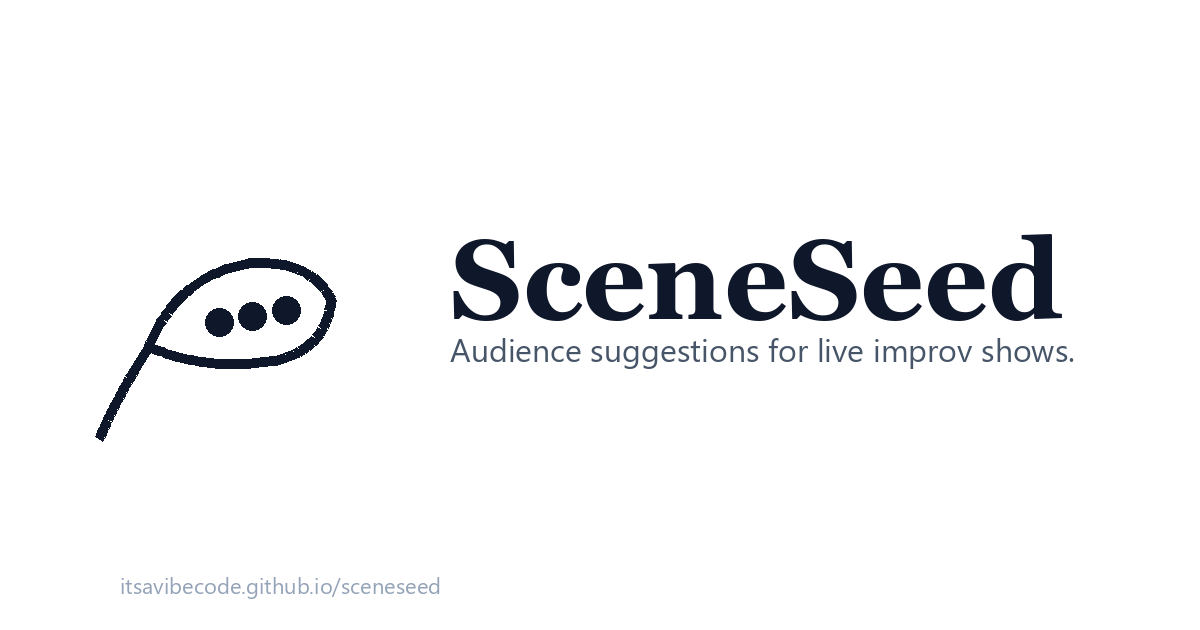
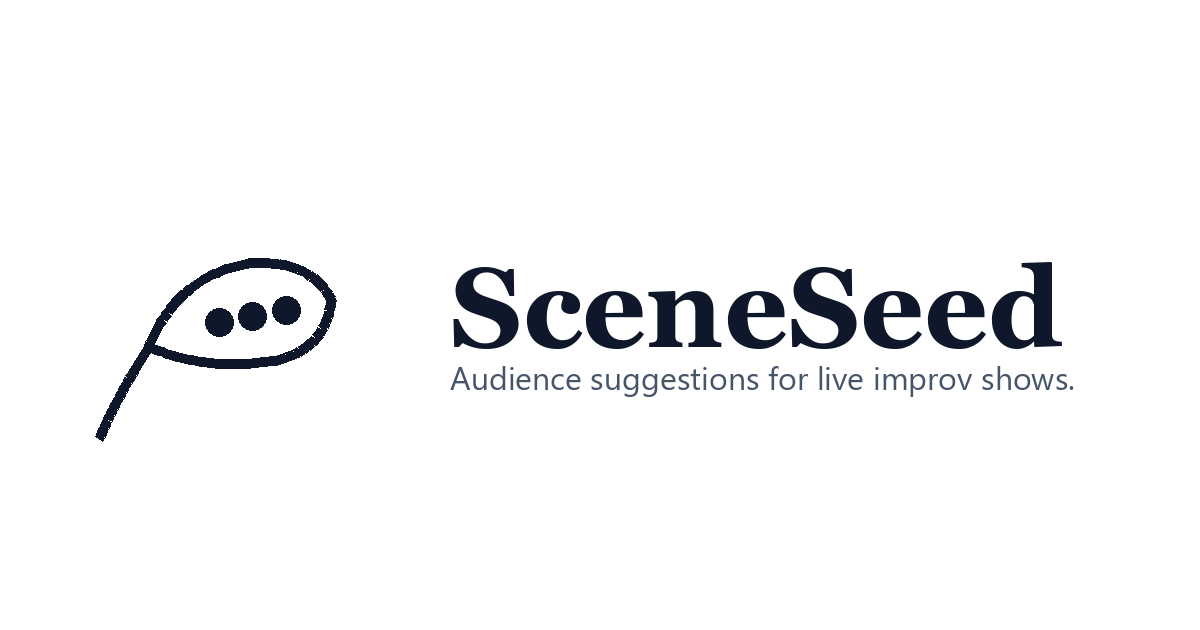
v1.2.0 — secondary deployment to dev.rizzo.cc/sceneseed
NEW WORKFLOW (.github/workflows/mirror-to-dev.yml):
- Triggered on push to main + manual workflow_dispatch.
- Checks out itsavibecode/sceneseed + yada-yoda/dev (with PAT).
- rsyncs source → dst/sceneseed/ excluding .git, .github, README.md,
  firestore.rules, firestore.indexes.json, firebase.json, design/,
  .scripts/.
- Three-pass sed rewrite of itsavibecode.github.io references to
  dev.rizzo.cc in .html .js .txt .xml .webmanifest files.
- Commits with intentionally generic "Update /sceneseed" — never
  references the source repo. Committer is github-actions[bot].

OG IMAGE:
- Rebuilt without the URL footer so the same artwork works on both
  deployment origins without leaking either domain into the picture.

ONE-TIME SETUP REQUIRED (see README v1.2.0 section):
- Fine-grained PAT on yada-yoda, scoped to yada-yoda/dev,
  Contents read+write. Add as MIRROR_TO_DEV_PAT repo secret on
  itsavibecode/sceneseed.
- Add dev.rizzo.cc to Firebase Auth → Settings → Authorized domains.

Once that's in place, the mirror auto-runs on every push.

Changed region(s): [[0.37, 0.3619, 0.8942, 0.6333], [0.0925, 0.9048, 0.37, 0.9651]]

diff --git a/dashboard.html b/dashboard.html
@@ -21,7 +21,7 @@
 
 <title>Dashboard — SceneSeed</title>
 <meta name="description" content="Manage your improv groups, shows, and suggestions.">
-<meta name="version" content="1.1.0">
+<meta name="version" content="1.2.0">
 <meta name="theme-color" content="#0f172a">
 <meta name="robots" content="noindex">
 
@@ -138,7 +138,7 @@
       <a href="/sceneseed/">Home</a>
       <a href="privacy.html">Privacy</a>
     </div>
-    <div>SceneSeed v1.1.0 · MIT</div>
+    <div>SceneSeed v1.2.0 · MIT</div>
   </div>
 </footer>
 

diff --git a/group.html b/group.html
@@ -21,7 +21,7 @@
 
 <title>Group — SceneSeed</title>
 <meta name="description" content="Manage an improv group on SceneSeed.">
-<meta name="version" content="1.1.0">
+<meta name="version" content="1.2.0">
 <meta name="theme-color" content="#0f172a">
 <meta name="robots" content="noindex">
 
@@ -217,7 +217,7 @@
       <a href="/sceneseed/">Home</a>
       <a href="privacy.html">Privacy</a>
     </div>
-    <div>SceneSeed v1.1.0 · MIT</div>
+    <div>SceneSeed v1.2.0 · MIT</div>
   </div>
 </footer>
 

diff --git a/index.html b/index.html
@@ -24,7 +24,7 @@
 <meta name="description" content="A free web app for improv teams. Collect audience suggestions through a show-specific QR code with a server-locked submission window.">
 <meta name="keywords" content="improv suggestion app, audience suggestion collector, improv show QR code, live improv ensemble dashboard, suggestion box for theater, improv prompt generator, audience participation app, scene starter, improv prompt seed, QR audience suggestions">
 <meta name="author" content="itsavibecode">
-<meta name="version" content="1.1.0">
+<meta name="version" content="1.2.0">
 <meta name="theme-color" content="#0f172a">
 <meta name="robots" content="index, follow">
 
@@ -168,7 +168,7 @@
     <div>
       <a href="privacy.html">Privacy</a>
     </div>
-    <div>SceneSeed v1.1.0 · MIT</div>
+    <div>SceneSeed v1.2.0 · MIT</div>
   </div>
 </footer>
 

diff --git a/show.html b/show.html
@@ -21,7 +21,7 @@
 
 <title>Show — SceneSeed</title>
 <meta name="description" content="Manage an improv show on SceneSeed.">
-<meta name="version" content="1.1.0">
+<meta name="version" content="1.2.0">
 <meta name="theme-color" content="#0f172a">
 <meta name="robots" content="noindex">
 
@@ -320,7 +320,7 @@
       <a href="/sceneseed/">Home</a>
       <a href="privacy.html">Privacy</a>
     </div>
-    <div>SceneSeed v1.1.0 · MIT</div>
+    <div>SceneSeed v1.2.0 · MIT</div>
   </div>
 </footer>
 

diff --git a/signin.html b/signin.html
@@ -21,7 +21,7 @@
 
 <title>Sign in — SceneSeed</title>
 <meta name="description" content="Sign in to SceneSeed to host an improv show.">
-<meta name="version" content="1.1.0">
+<meta name="version" content="1.2.0">
 <meta name="theme-color" content="#0f172a">
 <meta name="robots" content="noindex">
 
@@ -93,7 +93,7 @@
       <a href="/sceneseed/">Home</a>
       <a href="privacy.html">Privacy</a>
     </div>
-    <div>SceneSeed v1.1.0 · MIT</div>
+    <div>SceneSeed v1.2.0 · MIT</div>
   </div>
 </footer>
 

diff --git a/summary.html b/summary.html
@@ -21,7 +21,7 @@
 
 <title>Show summary — SceneSeed</title>
 <meta name="description" content="Post-show summary with favorites, used suggestions, and top submitters.">
-<meta name="version" content="1.1.0">
+<meta name="version" content="1.2.0">
 <meta name="theme-color" content="#0f172a">
 <meta name="robots" content="noindex">
 
@@ -147,7 +147,7 @@
       <a href="/sceneseed/">Home</a>
       <a href="privacy.html">Privacy</a>
     </div>
-    <div>SceneSeed v1.1.0 · MIT</div>
+    <div>SceneSeed v1.2.0 · MIT</div>
   </div>
 </footer>
 

diff --git a/view/index.html b/view/index.html
@@ -12,7 +12,7 @@
 
 <title>Ensemble view — SceneSeed</title>
 <meta name="description" content="Read-only view of audience suggestions for a show.">
-<meta name="version" content="1.1.0">
+<meta name="version" content="1.2.0">
 <meta name="theme-color" content="#0f172a">
 <meta name="robots" content="noindex">
 
@@ -83,7 +83,7 @@
       <a href="/sceneseed/">Home</a>
       <a href="/sceneseed/privacy.html">Privacy</a>
     </div>
-    <div>SceneSeed v1.1.0 · MIT</div>
+    <div>SceneSeed v1.2.0 · MIT</div>
   </div>
 </footer>
 

diff --git a/perform.html b/perform.html
@@ -21,7 +21,7 @@
 
 <title>Perform — SceneSeed</title>
 <meta name="description" content="Full-screen performer view of incoming suggestions.">
-<meta name="version" content="1.1.0">
+<meta name="version" content="1.2.0">
 <meta name="theme-color" content="#000000">
 <meta name="robots" content="noindex">
 

diff --git a/privacy.html b/privacy.html
@@ -105,7 +105,7 @@
     <div>
       <a href="/sceneseed/">Home</a>
     </div>
-    <div>SceneSeed v1.1.0 · MIT</div>
+    <div>SceneSeed v1.2.0 · MIT</div>
   </div>
 </footer>
 

diff --git a/s/index.html b/s/index.html
@@ -12,7 +12,7 @@
 
 <title>Suggest a scene — SceneSeed</title>
 <meta name="description" content="Submit a one-line suggestion to the show.">
-<meta name="version" content="1.1.0">
+<meta name="version" content="1.2.0">
 <meta name="theme-color" content="#0f172a">
 <meta name="robots" content="noindex">
 

diff --git a/.scripts/build-og-image.py b/.scripts/build-og-image.py
@@ -133,13 +133,14 @@ def build_og_image(out_path):
 
     title_h = title_box[3] - title_box[1]
     total_h = title_h + 24 + (sub_box[3] - sub_box[1])
-    title_y = (H - total_h) / 2 - 28
+    # Centered vertically when the URL footer is gone.
+    title_y = (H - total_h) / 2
     d.text((title_x, title_y), title, fill=INK, font=title_font)
     d.text((title_x, title_y + title_h + 24), sub, fill=MUTED, font=sub_font)
 
-    # Footer URL bottom-left
-    url = "itsavibecode.github.io/sceneseed"
-    d.text((120, H - 60), url, fill=FAINT, font=url_font)
+    # No URL footer on the OG image — keeps the same artwork usable across
+    # multiple deployments (e.g. dev.rizzo.cc mirror) without leaking either
+    # origin into the picture itself.
 
     img.save(out_path, 'PNG', optimize=True)
     print(f"wrote {out_path}  ({W}×{H})")

diff --git a/README.md b/README.md
@@ -76,6 +76,7 @@ firebase deploy --only firestore:rules
 | 0.10.0 | ✅ shipped | Multiple rounds per show + live audience updates when host opens a new round |
 | **1.0.0** | **✅ shipped** | **Production milestone: profanity + hate-term filter, version-1 declaration** |
 | 1.1.0 | ✅ shipped | PWA installability — proper PNG icon set (192/512/maskable), full manifest, cache-first service worker |
+| 1.2.0 | ✅ shipped | Secondary deployment to dev.rizzo.cc/sceneseed via GitHub Action |
 
 ## Post-1.0 ideas
 
@@ -93,6 +94,23 @@ firebase deploy --only firestore:rules
 | 1.0.0 | | Polish, mobile QA, Lighthouse pass |
 
 ## Changelog
+
+### v1.2.0 — 2026-05-08
+- **Secondary deployment to `dev.rizzo.cc/sceneseed`** via a new GitHub Action (`.github/workflows/mirror-to-dev.yml`). On every push to `main`, the workflow rsyncs the static site (minus repo-only files) into the `/sceneseed` folder of `yada-yoda/dev`, sed-rewrites hostname references to `dev.rizzo.cc`, and commits with a generic message. Same pattern the `usage` project uses.
+- **OG image** rebuilt without the URL footer so the same PNG works on both deployment origins without leaking either domain into the picture.
+- **One-time setup** required to activate the mirror (see below).
+
+#### Activating the mirror (one-time setup)
+
+The workflow is shipped but won't run until two things are in place:
+
+1. **Fine-grained PAT for the target account.** On the `yada-yoda` account, create a PAT (Settings → Developer settings → Personal access tokens → Fine-grained) scoped to:
+   - **Repository access:** `yada-yoda/dev` only
+   - **Permissions:** Repository → Contents → Read and write
+2. **Add it as a repo secret on `itsavibecode/sceneseed`**: Settings → Secrets and variables → Actions → New repository secret → name `MIRROR_TO_DEV_PAT`, value = the PAT.
+3. **Firebase Auth authorized domains:** Console → Authentication → Settings → Authorized domains → add `dev.rizzo.cc`. Without this, Google sign-in and email-link callbacks break on the mirror.
+
+Once those are done, push anything (or click "Run workflow" on the Actions tab) and the mirror appears at https://dev.rizzo.cc/sceneseed/ within a minute.
 
 ### v1.1.0 — 2026-05-08
 - **PWA installable.** Hosts can now "Add to home screen" on iOS/Android or "Install" on desktop Chrome/Edge. The app opens in a standalone window (no browser chrome), feels like a native app.